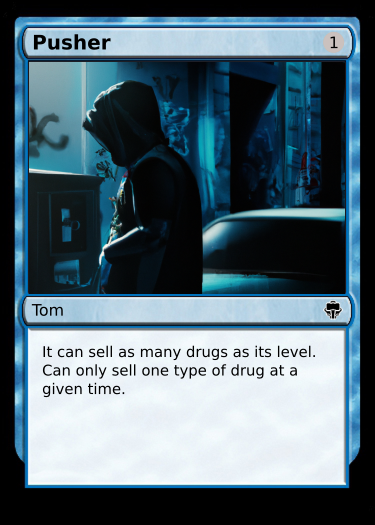
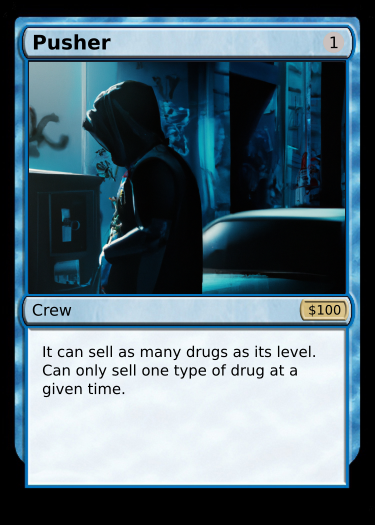
Improvements

Changed region(s): [[0.792, 0.5486, 0.9387, 0.6095], [0.088, 0.579, 0.2053, 0.6095]]

diff --git a/script.js b/script.js
@@ -9,6 +9,7 @@ for (const entry of json) {
         cardFrame(entry.frame),
         cardImage(entry.image),
         entry.subtitle,
+        entry.cost ?? '',
         entry.description,
         entry.levels,
     )
@@ -32,11 +33,33 @@ function levelChip(level, index) {
     return `<circle style="fill:#cbc1be;fill-opacity:1;stroke:#cabeb6;stroke-width:1;stroke-linejoin:round;stroke-dasharray:none;stroke-opacity:1;paint-order:stroke markers fill" id="levelout${index + 1}" cx="${333.67 - (24 * index)}" cy="42.348" r="10" /><text style="font-style:normal;font-weight:normal;font-size:15.8746px;line-height:1.25;font-family:sans-serif;fill:#000000;fill-opacity:1;stroke:none;stroke-width:0.264574" x="${328.87 - (24 * index)}" y="48.152" id="levelin${index + 1}"><tspan sodipodi:role="line" id="tspanlevel1" style="font-size:15.8746px;stroke-width:0.264574" x="${328.87 - (24 * index)}" y="48.152">${level}</tspan></text>`
 }
 
+function costChip(cost) {
+    const parts = cost.split('#')
+    const size = parts[1]
+    const image = base64File(`images/cost.png`)
+
+    return `<image width="49.398" height="22.048" preserveAspectRatio="none" xlink:href="${image}"
+    id="image257"
+    x="299.62"
+    y="298.56" /><text
+    style="font-style:normal;font-weight:normal;font-size:10.5833px;line-height:1.25;font-family:sans-serif;fill:#000000;fill-opacity:1;stroke:none;stroke-width:0.264571"
+    text-anchor="middle"
+    dominant-baseline="middle"
+    x="324.72"
+    y="311"
+    id="levelin1-3"><tspan
+        sodipodi:role="line"
+        id="tspanlevel1-6"
+        style="font-size:${size}px;stroke-width:0.264571"
+        x="324.72"
+        y="311">${parts[0]}</tspan></text>`
+}
+
 function descriptionLine(text, index) {
     return `<tspan sodipodi:role="line" style="font-size:14.8167px;stroke-width:0.26458" x="42" y="${375.52 + (18.52 * index)}" id="tspanline${index + 1}">${text}</tspan>`
 }
 
-function generateCard(name, title, frame, image, subtitle, description, levels) {
+function generateCard(name, title, frame, image, subtitle, cost, description, levels) {
     let card = template
         .replace('{{TITLE}}', title)
         .replace('{{SUBTITLE}}', subtitle)
@@ -66,6 +89,7 @@ function generateCard(name, title, frame, image, subtitle, description, levels) 
     }
 
     card = card.replace('{{LEVELS}}', levelsTag)
+    card = card.replace('{{COST}}', costChip(cost))
 
     fs.writeFileSync(`svg/${name}`, card)
 }
